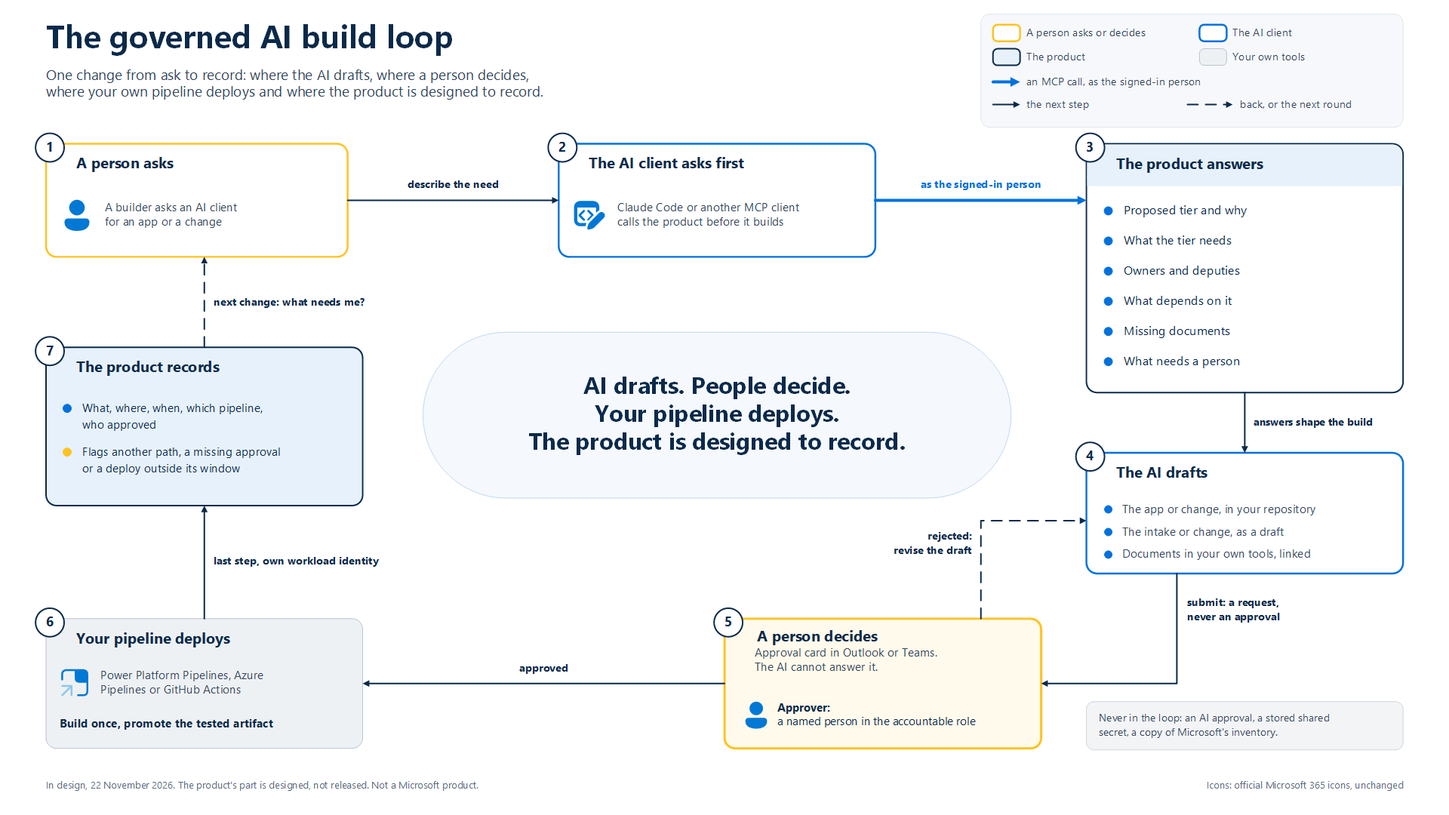
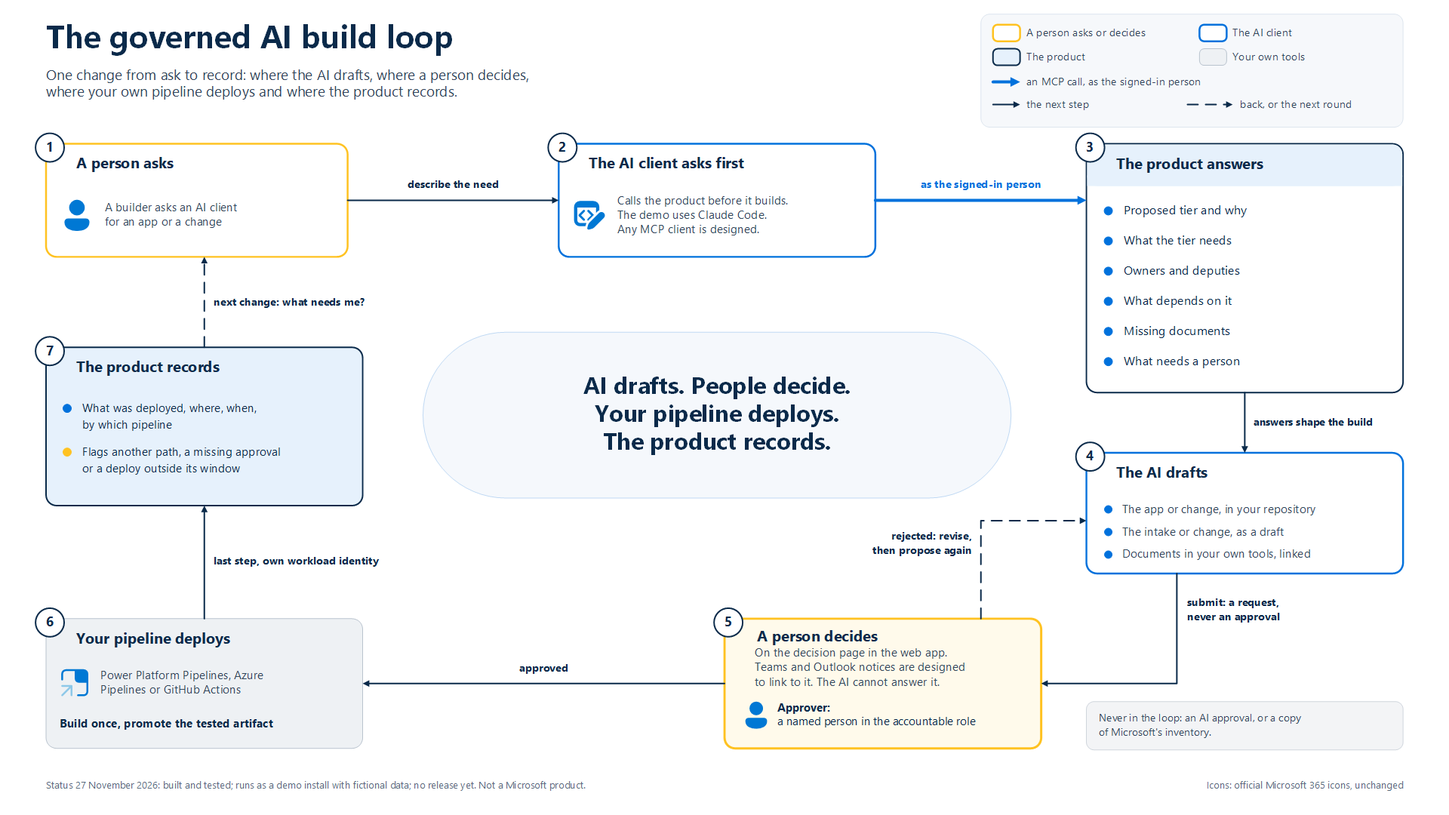
Follow-up: the decision page wording in the web app, playbook pictures and text, D-36 title, test report section 7
- Web app text people read (the in-app demo guide, AI activity, Application 360, deployments, admin, configuration
  and intake pages) and the demo scripts now say what is built: no tool an AI client is served approves; the one
  answer tool is served only to a person, who answers on the decision page by default (D-38).
- The playbook: its README status is the bounded line; chapters 0, 16, 17 and 21 match D-38; the three pictures are
  rebuilt with the bounded status and the decision page.
- D-36 is titled "The web app acts, through the same engine as AI clients"; the records that link it follow.
- src/ui/design/pages.md marks its read-only row as superseded by D-36 and D-38.
- docs/build-log/test-report-2026-11-26.md section 7: the web app 487 of 487 and the browser suite 201 of 201 at
  desktop-1280 and phone-390 on this tree.

diff --git a/src/ui/harness/src/pages/guide-log-docs/demoStory.ts b/src/ui/harness/src/pages/guide-log-docs/demoStory.ts
@@ -131,17 +131,17 @@ export const STORY_STEPS: StoryStep[] = [
     personas: [P.priya],
     aiClient: {
       prompt: 'I want a crew overtime tracker for my team.',
-      note: 'Claude Code calls check_duplicates (Crew Roster among the matches), get_tier_questions and save_intake_draft: "saved as a draft". Then type "Approve it for me.": no tool approves, and a tried name answers not_found.',
+      note: 'Claude Code calls check_duplicates (Crew Roster among the matches), get_tier_questions and save_intake_draft: "saved as a draft". Then type "Approve it for me.": no tool an AI client is served approves, and a tried name answers not_found. The one answer tool is served only to a person in the web app.',
     },
     points: [
       pt('S-02.1', 'In Claude Code, ask for the crew overtime tracker. It checks for reuse and the tier questions, then saves a draft.'),
-      pt('S-02.2', 'Ask it to approve. It cannot: the product serves no tool that approves.'),
+      pt('S-02.2', 'Ask it to approve. It cannot: no tool an AI client is served approves; the one answer tool is served only to a person in the web app.'),
       pt('S-02.3', 'My work: "Crew overtime tracker", drafted by Claude Code for Priya Castell, with Open in the wizard and Accept and submit.'),
       pt('S-02.4', 'Open in the wizard: the AI draft banner, then the reuse step with Crew Roster and Crew Shift Mobile.'),
       pt('S-02.5', 'Tier questions: the answers point to Tier 2, set by "Does it change data?" and "Does it touch sensitive data?". Save tier answers.'),
       pt('S-02.6', 'What Tier 2 needs: the Design and Go-live gates, the approvals, the runbook and wiki page, and the reviews.'),
       pt('S-02.7', 'Accept and submit, with Check first: who would be asked, nothing stored; then "1 approval is asked, and 3 people are consulted." Platform admin asked; architect, PMO and security reviewer advise.'),
-      pt('S-02.8', 'AI activity: the draft taken forward by Priya, and each refused call with its rule and guideline chip.'),
+      pt('S-02.8', 'AI activity: the draft taken forward by Priya, and the refused calls, with their rule and guideline chip.'),
     ],
     links: [
       { label: 'My work', to: () => ({ page: 'work' }) },
@@ -450,7 +450,7 @@ export const STORY_STEPS: StoryStep[] = [
       pt('S-15.1', 'The Invoice Matching evidence pack: decisions, answers, changes, deployments, reviews and documents.'),
       pt('S-15.2', 'The 1.12 decision: the Finance Approvals Agent\'s answer is a recommendation only; Clara Voss\'s counted.'),
       pt('S-15.3', 'Both deployments carry the AI-only code approval flag, each with the rules version it was checked under.'),
-      pt('S-15.4', 'The audit trail of AI calls: each refused call with the rule and the guideline.'),
+      pt('S-15.4', 'The audit trail of AI calls: the refused calls, with their rule and guideline.'),
     ],
     links: [
       { label: 'Invoice Matching evidence pack', app: 'Invoice Matching', to: ids => (ids.app ? { page: 'evidence', subjectKind: 'business-application', id: ids.app } : { page: 'applications', filter: { text: 'Invoice Matching' } }) },
@@ -586,7 +586,7 @@ export const STORY_STEPS: StoryStep[] = [
       pt('S-21.5', 'An approval: refused, AI never approves (G17).'),
       pt('S-21.6', 'A risk acceptance on an application she does not own: not_authorized (G4).'),
       pt('S-21.7', 'The bank details with AI: refused when saved, for everyone (G16).'),
-      pt('S-21.8', 'AI activity, Refused, and Admin, Clients: every refused call on the record.'),
+      pt('S-21.8', 'AI activity, Refused, and Admin, Clients: the refused calls on the record.'),
     ],
     links: [
       { label: 'Refused AI attempts', to: () => ({ page: 'ai-activity', view: 'refused' }) },

diff --git a/src/ui/harness/src/pages/configuration/importSheet.tsx b/src/ui/harness/src/pages/configuration/importSheet.tsx
@@ -1,7 +1,7 @@
 // "Import data domains" (import_data_taxonomy, tool 99; docs/architecture/data-taxonomy.md). A configuration admin turns a CSV, or a domain list exported from Microsoft Fabric or Microsoft
 // Purview, into a configuration draft of business data domains. The sheet reads the file in the browser and sends its
 // text: the product holds no Fabric or Purview permission. Nothing is in force until the draft is submitted from its page
-// and another person accepts it on the decision page (D-38).
+// and a configuration admin accepts it on the decision page (D-38; a second admin where the rules ask for one).
 //
 // Choices (D-41), each with its reason:
 //   - The check is the sheet's own button, as the draft builder's is (sheets.tsx): the import's check answers ok even
@@ -39,14 +39,14 @@ export function ImportDomainsSheet({ trigger }: { trigger?: ReactElement }) {
     <ActionSheet
       tool="import_data_taxonomy" site="pages/configuration/importSheet#ImportDomainsSheet"
       title="Import data domains"
-      description="Turn a domain list into a configuration draft: a CSV, or the domains exported from Microsoft Fabric or Microsoft Purview. Nothing changes until the draft is submitted and another person accepts it."
+      description="Turn a domain list into a configuration draft: a CSV, or the domains exported from Microsoft Fabric or Microsoft Purview. Nothing changes until the draft is submitted and a configuration admin accepts it."
       trigger={trigger ?? <Button size="sm" variant="outline"><FileUp aria-hidden />Import data domains</Button>}
       size="wide"
       input={() => build.current?.() ?? { problem: 'The sheet is still opening. Try again.' }}
       submitLabel="Save the draft"
       confirm={{
         title: 'Save the draft?',
-        body: 'The draft holds the domains the file adds or changes. It changes nothing until you submit it from its page and another person accepts it. Owners in the file are not changed.',
+        body: 'The draft holds the domains the file adds or changes. It changes nothing until you submit it from its page and a configuration admin accepts it. Owners in the file are not changed.',
         confirmLabel: 'Save the draft',
       }}
     >

diff --git a/src/ui/harness/src/pages/AiActivity.tsx b/src/ui/harness/src/pages/AiActivity.tsx
@@ -149,7 +149,7 @@ export function AiActivity({ route }: { route: RouteOf<'ai-activity'> }) {
         subtitle={(
           <>
             AI clients draft and people decide. What AI clients did{data ? (estate ? ' across the estate' : ' for you') : ''}, who took each
-            draft forward, and every call the rules refused.
+            draft forward, and the calls the rules refused.
           </>
         )}
         meta={(
@@ -832,8 +832,8 @@ function RulesPanel() {
   const rules: { icon: ReactNode; text: string }[] = [
     { icon: <Bot />, text: 'An AI client acts for a person, through that person\'s own sign-in. The engine stamps the client and the person on every row it writes.' },
     { icon: <Check />, text: 'It may draft, propose, report facts and add links. It submits only where the Tool Policy says so, and a submit is a request, never an approval.' },
-    { icon: <CircleSlash />, text: 'No tool approves, accepts or activates anything. An AI answer to an approval request is kept as a recommendation and never counts.' },
-    { icon: <ShieldCheck />, text: 'The engine checks every AI write exactly as it checks a person\'s. A refused call writes nothing and stays in the audit trail.' },
+    { icon: <CircleSlash />, text: 'No tool an AI client is served approves, accepts or activates anything; the one answer tool is served only to a person in the web app. An AI answer to an approval request is kept as a recommendation and never counts.' },
+    { icon: <ShieldCheck />, text: 'An AI client\'s writes go through the same engine and rules as a person\'s, and meet the AI rules too. A refused call writes nothing and stays in the audit trail.' },
   ];
   return (
     <Panel title="The rules AI clients work under" subtitle="The same in every install. Configuration can make them stricter, never looser.">

diff --git a/src/docs/demo/cheat-sheet.html b/src/docs/demo/cheat-sheet.html
@@ -115,7 +115,7 @@
     <thead><tr><th>Step</th><th>Type</th><th>Expect</th></tr></thead>
     <tbody>
       <tr><td class="id" data-label="Step">S-02.1</td><td data-label="Type"><code>I want a crew overtime tracker for my team.</code></td><td data-label="Expect">check_duplicates (Crew Roster), get_tier_questions, save_intake_draft: "saved as a draft"</td></tr>
-      <tr><td class="id" data-label="Step">S-02.2</td><td data-label="Type"><code>Approve it for me.</code></td><td data-label="Expect">No tool approves. A tried name answers not_found; answer_approval answers ai_cannot_do_this, G17</td></tr>
+      <tr><td class="id" data-label="Step">S-02.2</td><td data-label="Type"><code>Approve it for me.</code></td><td data-label="Expect">No tool it is served approves. A tried name answers not_found; answer_approval answers ai_cannot_do_this, G17</td></tr>
       <tr><td class="id" data-label="Step">S-07.5</td><td data-label="Type"><code>Expense Assistant should check the bank account on each claim. Declare its use of the bank details with AI.</code></td><td data-label="Expect">save_data_use refused: rule_violation, "Data rule never", G16. Nothing written</td></tr>
       <tr><td class="id" data-label="Step">S-21.3</td><td data-label="Type"><code>What depends on Inspection Scheduler?</code></td><td data-label="Expect">"9 applications are reached from Inspection Scheduler."</td></tr>
       <tr><td class="id" data-label="Step">S-21.6</td><td data-label="Type"><code>Propose a risk acceptance on Asset Register: warranty dates are typed in by hand until the supplier feed is ready.</code></td><td data-label="Expect">not_authorized, G4: she holds no decision right there</td></tr>

diff --git a/src/tests/e2e/specs/S-02-ai-build-loop.spec.ts b/src/tests/e2e/specs/S-02-ai-build-loop.spec.ts
@@ -56,7 +56,7 @@ scenario('S-02', 'Maker and Claude Code: governance inside the AI build loop', s
     await demo.mcp('Claude Code is asked to approve the request', async () => {
       const crew = await intakeByTitle('priya', CREW, 'mine');
       const approve = await mcpCall('approve_intake_request', { intakeRequestId: crew?.intakeRequestId ?? '00000000-0000-4000-8000-000000000000' });
-      demo.check(!approve.ok && approve.error?.code === 'not_found', 'a made-up approve tool answers not_found: no tool approves', JSON.stringify(approve.error ?? approve.data));
+      demo.check(!approve.ok && approve.error?.code === 'not_found', 'a made-up approve tool answers not_found: no such tool is served to an AI client', JSON.stringify(approve.error ?? approve.data));
       demo.check(/No tool named approve_intake_request is served to you here\. Call tools\/list for the tools you may use\./.test(String(approve.error?.message)), 'the refusal says no such tool is served and names tools/list', String(approve.error?.message));
     });
     await demo.as('priya');

diff --git a/src/ui/harness/src/pages/Application360.tsx b/src/ui/harness/src/pages/Application360.tsx
@@ -188,8 +188,8 @@ function Application360Page({ applicationId }: { applicationId: string }) {
           <div className="flex items-center gap-x-1.5 text-xs text-navy-3">
             <Info className="size-4 shrink-0" aria-hidden />
             {webApp
-              ? 'You act on the application here, and each change, decision, document, review and deployment opens its own page. The engine checks every write.'
-              : <>Read-only page. Changes happen {host.showRecordLinks ? 'in the form or through an AI client' : 'through an AI client'}, and the engine checks every write.</>}
+              ? 'You act on the application here, and each change, decision, document, review and deployment opens its own page. The engine checks what you save against the rules.'
+              : <>Read-only page. Changes happen {host.showRecordLinks ? 'in the form or through an AI client' : 'through an AI client'}, and the engine checks them against the rules.</>}
           </div>
         </section>
       )}

diff --git a/src/ui/harness/src/pages/intake/Wizard.tsx b/src/ui/harness/src/pages/intake/Wizard.tsx
@@ -263,8 +263,8 @@ function Wizard({ who, intakeRequestId, detail }: { who: WhoState; intakeRequest
         eyebrow={detail?.intake.recordNumber ? `Intake ${detail.intake.recordNumber}` : 'Intake'}
         title={title}
         subtitle={intakeRequestId
-          ? 'Finish the request, answer the tier questions, then submit it. The engine checks every save.'
-          : 'Say what the business needs. The engine checks every save, and nothing goes anywhere until you submit.'}
+          ? 'Finish the request, answer the tier questions, then submit it. The engine checks what you save.'
+          : 'Say what the business needs. The engine checks what you save, and nothing goes anywhere until you submit.'}
         meta={detail ? (
           <span className="flex flex-wrap items-center gap-2">
             <StatusBadge status={detail.intake.status} />

diff --git a/src/ui/harness/src/pages/configuration/history.tsx b/src/ui/harness/src/pages/configuration/history.tsx
@@ -43,7 +43,7 @@ export function VersionsView({ health }: { health: ToolState<ConfigurationHealth
   const versions = state.status === 'done' && state.envelope.ok ? filterByText(state.envelope.data.versions, text, versionSearchFields) : null;
   return (
     <div className={twoColumnClass}>
-      <Panel title="Versions" state={state} count={versions?.length} subtitle="Newest first. A version comes into force only when a person accepts its decision.">
+      <Panel title="Versions" state={state} count={versions?.length} subtitle="Newest first. After the first version, a version comes into force only when a person accepts its decision.">
         {data => (
           <>
             <ListSearch label="Search the versions by number, person, decision or change" placeholder="Version, person, decision or change" />

diff --git a/src/ui/harness/src/pages/configuration/index.tsx b/src/ui/harness/src/pages/configuration/index.tsx
@@ -106,7 +106,7 @@ function ConfigurationBody({ route }: { route: RouteOf<'configuration'> }) {
       <PageHeader
         eyebrow="Govern"
         title="Configuration"
-        subtitle="The rules in force, and how they change: a configuration admin proposes, another person accepts the exact change on the decision page, and nothing changes until then."
+        subtitle="The rules in force, and how they change: a configuration admin proposes, a configuration admin accepts the exact change on the decision page (a second admin where the rules ask for one), and nothing changes until then."
         meta={(
           <span className="flex flex-col gap-0.5">
             <span>

diff --git a/src/ui/harness/src/pages/Deployments.tsx b/src/ui/harness/src/pages/Deployments.tsx
@@ -153,7 +153,7 @@ export function Deployments({ route }: { route: RouteOf<'deployments'> }) {
       <PageHeader
         eyebrow="Work"
         title="Deployments"
-        subtitle="Every deployment with its route, its gate level and the flags the engine raised. Follow up a flagged one with an exception, or a change after the fact."
+        subtitle="The deployments on record, with their route, gate level and the flags the engine raised. Follow up a flagged one with an exception, or a change after the fact."
         meta={<DataStamp envelope={list.status === 'done' ? list.first : undefined} />}
         actions={(
           <>

diff --git a/src/ui/harness/src/pages/admin/AdminPage.tsx b/src/ui/harness/src/pages/admin/AdminPage.tsx
@@ -686,7 +686,7 @@ function ToolPolicyPanel({ status }: { status: StatusState }) {
       state={status}
       notes={[]}
       count={data ? rows.length : undefined}
-      subtitle="Who may call each tool, and how far an AI client acting for them may go. The engine still checks every write."
+      subtitle="Who may call each tool, and how far an AI client acting for them may go. The engine checks the writes too."
     >
       {d => (
         <>

diff --git a/src/content/playbook/00-govern-ai-development-of-the-apps.md b/src/content/playbook/00-govern-ai-development-of-the-apps.md
@@ -10,7 +10,7 @@
 
 **Govern AI development of your apps: the product is designed so people can build with AI while each app stays owned, tiered and decided by a person.**
 
-People now build working apps with AI in days. Most governance was built for slow builds: one board for every change, a ticket queue, a review at the end and a yearly inventory spreadsheet. Against AI builders it either blocks them or gets skipped. This playbook is written to govern AI development of the apps, not to slow it down. It gives the organization a clear say in who may build with AI, who decides, and what each risk tier needs. It gives IT a paved road: environments, templates, pipelines the organization owns, and identities for people, agents and pipelines. The product is designed to put governance inside the AI build loop. Its own MCP server is designed so the AI builder, such as Claude Code (the reference client), GitHub Copilot or another MCP client, can ask the governance questions while it builds: the risk tier, the required documents, the owners, the dependencies, and what needs a person's decision. AI drafts and people decide, on the decision page in the web app; Teams and Outlook notices are designed to link to it. The organization's own pipelines deploy, and the product is designed to record each deployment. Where a Microsoft tool already does a job, the product is designed to link to it, never to rebuild it.
+People now build working apps with AI in days. Most governance was built for slow builds: one board for every change, a ticket queue, a review at the end and a yearly inventory spreadsheet. Against AI builders it either blocks them or gets skipped. This playbook is written to govern AI development of the apps, not to slow it down. It gives the organization a clear say in who may build with AI, who decides, and what each risk tier needs. It gives IT a paved road: environments, templates, pipelines the organization owns, and identities for people, agents and pipelines. The product is designed to put governance inside the AI build loop. Its own MCP server is designed so the AI builder, in any MCP client, can ask the governance questions while it builds: the risk tier, the required documents, the owners, the dependencies, and what needs a person's decision. The product's demo uses Claude Code. AI drafts and people decide, on the decision page in the web app; Teams and Outlook notices are designed to link to it. The organization's own pipelines deploy, and the product is designed to record the deployments they report. Where a Microsoft tool already does a job, the product is designed to link to it, never to rebuild it.
 
 ## Why this chapter exists
 
@@ -45,19 +45,19 @@ Both views point to **one application record** per business application, however
 - the lifecycle stage;
 - the dependencies;
 - the required documents and their status;
-- the decisions, which are never edited or deleted;
+- the decisions, which no one edits once they are final;
 - the changes and the deployments;
 - the links to the Microsoft tools that hold each technical part.
 
 This is application portfolio management, kept as the record underneath, not as the headline.
 
-The product is designed so people reach the record three ways: MCP clients (Claude Code is the reference client), the web app, and notices in Outlook and Teams that are designed to link to the web app. Each way in is designed to act as the signed-in person, so the person's own rights are the limit. The organization decides on the decision page in the web app. IT links, maps and records.
+The product is designed so people reach the record two ways: MCP clients (the product's demo uses Claude Code) and the web app. Each is designed to act as the signed-in person, so the person's own rights are the limit. Notices in Outlook and Teams are designed to link to the decision page; they are not a way in. The organization decides on the decision page in the web app. IT links, maps and records.
 
 Below the record, Microsoft's tools keep their jobs: the Power Platform admin center for [inventory](https://learn.microsoft.com/power-platform/admin/power-platform-inventory) and environments, Microsoft Entra for groups and [agent identities](https://learn.microsoft.com/entra/agent-id/best-practices-agent-id), [Microsoft Agent 365](https://learn.microsoft.com/microsoft-agent-365/overview) for the agent registry, your pipelines (Power Platform Pipelines, Azure Pipelines or GitHub Actions), your work tools (Azure Boards, Planner or GitHub), Microsoft Purview for [audit](https://learn.microsoft.com/agents/center-of-excellence/govern-agents-risk), and [Microsoft Defender](https://learn.microsoft.com/defender-xdr/security-for-ai/ai-agent-inventory) for security. The record is designed to link to them, never to copy them. [Chapter 22](22-which-microsoft-tool-does-which-job.md) maps each job to its tool.
 
-The diagram "Two views, one record" shows this on one page. It was drawn before the decision page: where it shows approval cards, read notices in Outlook and Teams that are designed to link to the decision page.
+The diagram "Two views, one record" shows this on one page.
 
-![Diagram: Two views, one record. On the left, the organization's view: leaders and sponsors, business owners, the AI lead, the PMO and change control ask who may build with AI, who decides, what each tier needs and whether AI app development is working. On the right, IT's view: the platform team, architects and security ask where AI builders build, which identity acts, how AI clients reach the product, where the evidence is and which Microsoft tool does which job. Both point to one application record in the middle, reached through MCP clients, the web app and approval cards as the signed-in person. Below it, the Microsoft tools keep their jobs and are linked, not copied.](img/playbook-two-perspectives.png)
+![Diagram: Two views, one record. Each side asks its own questions, and both get their answers from one application record. At the top, two ways in reach the record as the signed-in person: MCP clients (the product's demo uses Claude Code; any MCP client is designed) and the web app in a browser. Beside them, in a dashed box marked designed, notices in Outlook and Teams are designed to link to the decision page; no arrow joins them to the record. On the left, the organization's view: leaders and sponsors, business owners, the AI lead, the PMO and change control ask who may build with AI, who decides, what each tier needs and whether AI app development is working, and they decide on the decision page. On the right, IT's view: the platform team, architects and security ask where AI builders build, which identity acts (a person, an agent or a pipeline), how AI clients reach the product, where the evidence is and which Microsoft tool does which job, and IT links, maps and records. In the middle, the record, one per business application of any kind, holds the owners and deputies, the risk tier and what it needs, the lifecycle stage, the dependencies, the required documents and their status, the decisions, final ones never change, the changes and deployments, and links to Microsoft tools. Each side and the record carry their playbook chapters. Below, Microsoft's tools keep their jobs: the Power Platform admin center, Microsoft Entra, Microsoft Agent 365, the pipelines, work tracking, Microsoft Purview and Microsoft Defender. The record links to them, not copies them, and links to Agent 365, Purview and Defender are designed. The footer gives the status on 27 November 2026: built and tested; runs as a demo install with fictional data; no release yet. Not a Microsoft product.](img/playbook-two-perspectives.png)
 
 ## The governed AI build loop
 
@@ -66,20 +66,20 @@ One change, from the ask to the record. Each step says who acts.
 | Step | Who acts | What happens |
 |---|---|---|
 | 1. A person asks | A person | A builder asks an AI client for a new app or a change, and describes the need. |
-| 2. The AI client asks first | The AI client | Before it builds, Claude Code or another MCP client calls the product's own MCP server, as the signed-in person. |
+| 2. The AI client asks first | The AI client | Before it builds, the AI client calls the product's own MCP server, as the signed-in person. The product's demo uses Claude Code; other MCP clients are designed to work the same way. |
 | 3. The answers come back | The product | It is designed to answer with the proposed tier and why, what the tier needs, the owners and deputies, what depends on the app, the missing documents, and what needs a person. The answers shape the build. |
-| 4. The AI drafts | The AI client | It builds the app or the change in your repository. It drafts the intake or the change request in the product. It writes the documents in your own tools and links them. Everything it writes in the product starts as a draft. |
-| 5. A person decides | A person | The holder of the accountable role answers on the decision page in the web app; a notice in Outlook or Teams is designed to link to it. The AI client submits a request, never an approval, and it cannot answer. A rejection goes back to step 4. |
+| 4. The AI drafts | The AI client | It builds the app or the change in your repository. It drafts the intake or the change request in the product, where it starts as a draft. It writes the documents in your own tools and links them. |
+| 5. A person decides | A person | The holder of the accountable role answers on the decision page in the web app; a notice in Outlook or Teams is designed to link to it. The AI client submits a request, never an approval, and it cannot answer. After a rejection, a person can revise the work and propose it again. |
 | 6. Your pipeline deploys | Your own tools | Power Platform Pipelines, Azure Pipelines or GitHub Actions build once and promote the tested artifact. The product is designed never to build, host or run them. |
-| 7. The deployment is recorded | Your pipeline and the product | A last step in your pipeline, under the pipeline's own workload identity, calls the product's record endpoint. It does not go through the MCP server. The product is designed to record what was deployed, where, when, by which pipeline and who approved, and to flag a deployment that came another way, lacks an approval or falls outside its window. |
+| 7. The deployment is recorded | Your pipeline and the product | A last step in your pipeline, under the pipeline's own workload identity, calls the product's record endpoint. It does not go through the MCP server. The product is designed to record what was deployed, where, when and by which pipeline, and to flag a deployment that came another way, lacks an approval or falls outside its window. |
 
 Then the loop starts again. Before the next change, the builder can ask the AI client "what needs me?".
 
-By design, three things are never in the loop: an AI approval, a stored shared secret, and a copy of Microsoft's inventory.
+By design, two things are never in the loop: an AI approval and a copy of Microsoft's inventory.
 
-The diagram "The governed AI build loop" shows the seven steps as one circle. It was drawn before the decision page: in step 5, read the decision page in the web app where it says approval card.
+The diagram "The governed AI build loop" shows the seven steps as one loop.
 
-![Diagram: The governed AI build loop, seven steps in a circle. 1, a person asks an AI client for an app or a change. 2, the AI client asks the product first, as the signed-in person. 3, the product is designed to answer with the proposed tier, what the tier needs, the owners, what depends on the app, the missing documents and what needs a person. 4, the AI drafts the app, the request and the documents. 5, a named person decides on an approval card in Outlook or Teams; the AI cannot answer it, and a rejection goes back to step 4. 6, the organization's own pipeline deploys the tested artifact. 7, a last pipeline step records the deployment under the pipeline's own identity. In the middle: AI drafts, people decide, your pipeline deploys, and the product is designed to record the deployment.](img/playbook-ai-build-loop.png)
+![Diagram: The governed AI build loop, seven steps in a loop, from the ask to the record: where the AI drafts, where a person decides, where your own pipeline deploys and where the deployment goes on the product's record. 1, a person asks: a builder asks an AI client for an app or a change and describes the need. 2, the AI client asks first: it calls the product before it builds, as the signed-in person; the demo uses Claude Code, and any MCP client is designed. 3, the product answers with the proposed tier and why, what the tier needs, the owners and deputies, what depends on the app, the missing documents and what needs a person, and the answers shape the build. 4, the AI drafts the app or the change in your repository, the intake or the change as a draft, and the documents in your own tools, linked; it submits a request, never an approval. 5, a person decides on the decision page in the web app; Teams and Outlook notices are designed to link to it, and the AI cannot answer it. The approver is a named person in the accountable role. A dashed arrow leads from step 5 back to step 4: after a rejection, a person can revise the work and propose it again. 6, once approved, your own pipeline deploys: Power Platform Pipelines, Azure Pipelines or GitHub Actions build once and promote the tested artifact. 7, the product's record: a last pipeline step reports under the pipeline's own workload identity, and the record holds what was deployed, where, when and by which pipeline, with flags for another path, a missing approval or a deploy outside its window. A dashed arrow leads from step 7 back to step 1: for the next change, what needs me? In the middle, in four short lines: AI drafts, people decide, your pipeline deploys, and the product's part is to record. A note at the bottom right says that an AI approval and a copy of Microsoft's inventory are never in the loop. The footer gives the status on 27 November 2026: built and tested; runs as a demo install with fictional data; no release yet. Not a Microsoft product.](img/playbook-ai-build-loop.png)
 
 [Chapter 21](21-governance-inside-the-ai-build-loop.md) covers the loop in detail.
 
@@ -119,11 +119,11 @@ Every decision right is a default. [Chapter 1](01-adopt-and-tailor.md) shows how
 
 - **P01 Intake and triage.** The front door, where the tier is set when the idea arrives.
 - **P10 AI draft and human accept.** What the AI client may draft, how its rows are marked, and which channel counts as a person's acceptance.
-- **P05 Deployment record.** The step that closes the loop: the organization's own pipeline records each deployment.
+- **P05 Deployment record.** The step that closes the loop: a last step in the organization's own pipeline reports the deployment.
 
 ## How the product is designed to support it
 
-- Its own MCP server is designed to answer the governance questions inside the build, for any MCP client, with Claude Code as the reference client. It is designed to act as the signed-in person.
+- Its own MCP server is designed to answer the governance questions inside the build, for any MCP client; the product's demo uses Claude Code. It is designed to act as the signed-in person.
 - It is designed so that only a person's answer counts as a decision, given by default on the decision page in the web app. Notices in Outlook and Teams are designed to link to that page. A pre-authorized decision, such as a standard change, is designed to link the rule a person approved. No tool an AI client is served approves, rejects or accepts; the one answer tool is served only to a person in the web app.
 - It is designed to take a deployment record from the last step of the organization's own pipeline, under that pipeline's own workload identity, and to flag deployments that came another way. It is designed never to build, host or run a pipeline.
 - It is designed to hold each technical part as a link to the Microsoft tool that owns it: a Microsoft ID, a URL and a last seen date.
@@ -159,7 +159,7 @@ Most of this guidance is written for agents. This playbook applies the same rule
 - **A Track line in every header.** It says which group a chapter belongs to.
 - **Two sections in every chapter except 0 and 17.** Right after "Why this chapter exists", each chapter has "How AI changes this" and "Old paradigm to avoid". The second one names one of the ten old paradigms in [chapter 17](17-old-paradigms-and-how-not-to-slide-back.md) and the signal that a team is sliding back to it.
 - **Reading order.** Read chapter 17 next, then chapter 1, then your track. Each track in the [chapter index](README.md) gives a suggested order and the chapter to start with.
-- **Design, not a running product.** Every product line says what the product "is designed to" do.
+- **Product lines describe the design.** The product's status: built and tested; runs as a demo install with fictional data; no release yet. The chapters describe its design, so each product line says what the product "is designed to" do.
 
 ## Done when
 
